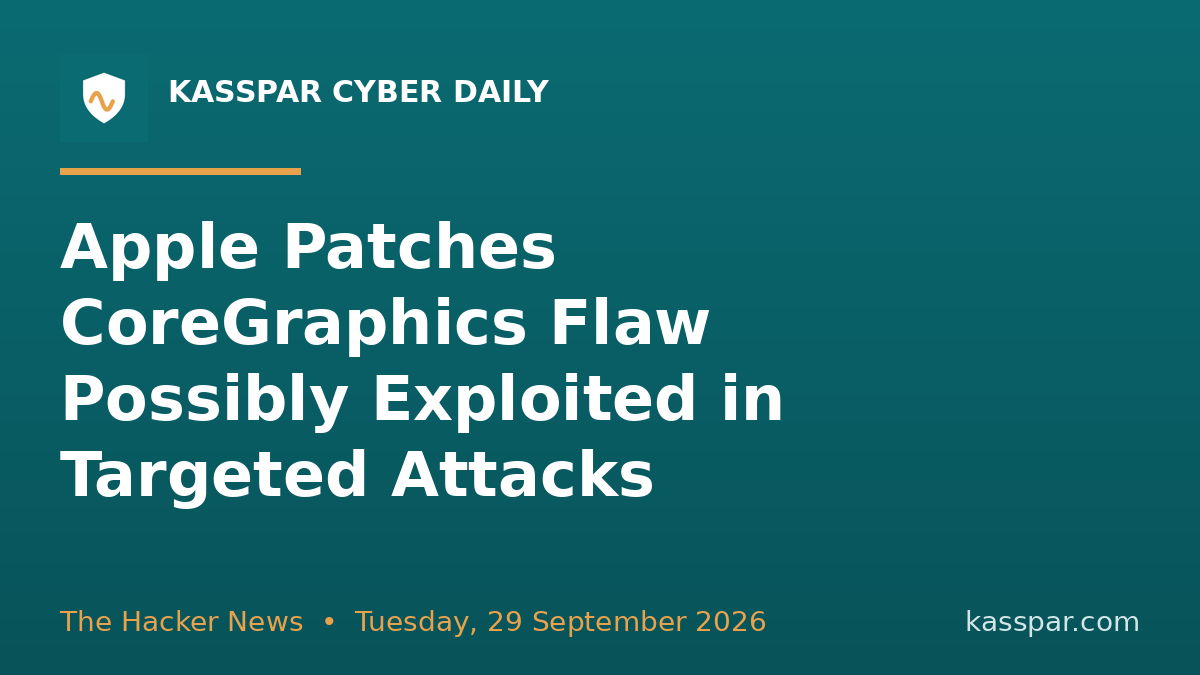
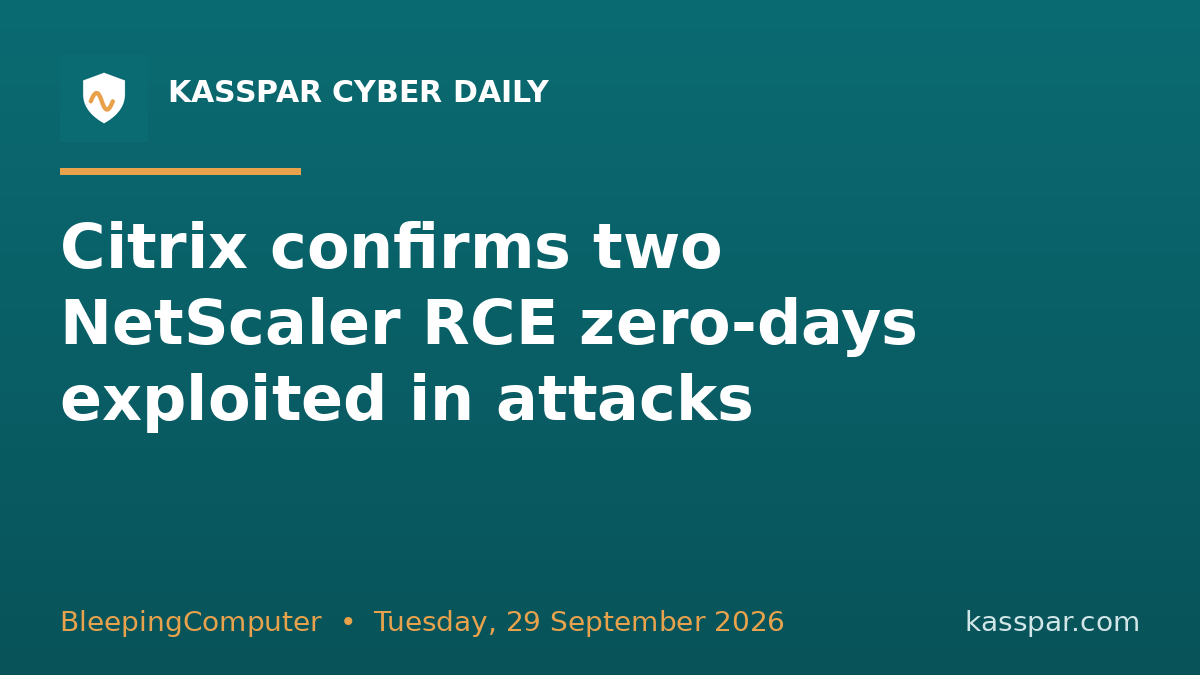
chore: archive 2026-09-29

Changed region(s): [[0.0308, 0.3111, 0.7708, 0.7467], [0.0308, 0.9022, 0.6475, 0.9644]]

diff --git a/site/archive/2026-09-29/index.html b/site/archive/2026-09-29/index.html
@@ -69,28 +69,28 @@
       <article class="card primary">
         <div class="badge">TODAY&#x27;S TOP STORY</div>
         <img class="thumb" src="card_0.png" alt="headline card" loading="lazy"/>
-        <h2>Citrix confirms two NetScaler RCE zero-days exploited in attacks</h2>
+        <h2>Apple patches CoreGraphics zero-day flaw exploited in attacks</h2>
         <p class="src">BleepingComputer</p>
 
         <div class="post">
-          <div class="post-h">X / Twitter <span>169/280</span></div>
-          <pre id="x0">🛠 Heads up, admins: Citrix confirms two NetScaler RCE zero-days exploited in attacks
+          <div class="post-h">X / Twitter <span>240/280</span></div>
+          <pre id="x0">🛠 Heads up, admins: Apple released security updates to fix a zero-day vulnerability exploited in &quot;extremely sophisticated&quot; targeted attacks on iOS devices.
 Patch fast — attackers already are.
 #CyberSecurity #InfoSec
-https://www.bleepingcomputer.com/news/security/citrix-admins-warned-to-shut-down-netscalers-over-2-exploited-zero-days/</pre>
+https://www.bleepingcomputer.com/news/security/apple-patches-coregraphics-zero-day-flaw-exploited-in-attacks/</pre>
           <div class="btns">
-            <a class="btn x" href="https://x.com/intent/tweet?text=%F0%9F%9B%A0%EF%B8%8F%20Heads%20up%2C%20admins%3A%20Citrix%20confirms%20two%20NetScaler%20RCE%20zero-days%20exploited%20in%20attacks%0APatch%20fast%20%E2%80%94%20attackers%20already%20are.%0A%23CyberSecurity%20%23InfoSec%0Ahttps%3A//www.bleepingcomputer.com/news/security/citrix-admins-warned-to-shut-down-netscalers-over-2-exploited-zero-days/" target="_blank" rel="noopener">Post to X ↗</a>
+            <a class="btn x" href="https://x.com/intent/tweet?text=%F0%9F%9B%A0%EF%B8%8F%20Heads%20up%2C%20admins%3A%20Apple%20released%20security%20updates%20to%20fix%20a%20zero-day%20vulnerability%20exploited%20in%20%22extremely%20sophisticated%22%20targeted%20attacks%20on%20iOS%20devices.%0APatch%20fast%20%E2%80%94%20attackers%20already%20are.%0A%23CyberSecurity%20%23InfoSec%0Ahttps%3A//www.bleepingcomputer.com/news/security/apple-patches-coregraphics-zero-day-flaw-exploited-in-attacks/" target="_blank" rel="noopener">Post to X ↗</a>
             <button class="btn ghost" onclick="copyEl('x0',this)">Copy</button>
           </div>
         </div>
 
         <div class="post">
           <div class="post-h">LinkedIn</div>
-          <pre id="li0">🔐 Citrix confirms two NetScaler RCE zero-days exploited in attacks
+          <pre id="li0">🔐 Apple patches CoreGraphics zero-day flaw exploited in attacks
 
 A vulnerability worth acting on today 👇
 
-Citrix has confirmed that two critical NetScaler remote code execution vulnerabilities, tracked as CVE-2026-88771 and CVE-2026-88772, are being exploited in attacks and that it has released security updates to fix the flaws. [...]
+Apple released security updates to fix a zero-day vulnerability exploited in &quot;extremely sophisticated&quot; targeted attacks on iOS devices. [...]
 
 ⚡ Why it matters: Patch affected systems promptly and confirm the fix actually applied.
 
@@ -102,7 +102,7 @@ Are your systems covered? What&#x27;s your team doing about this? 💬
             <button class="btn ghost" onclick="copyEl('li0',this)">Copy</button>
           </div>
           <p class="hint">✅ Tip: post the text above, then add the link below as the <b>first comment</b> (keeps reach up &amp; avoids spam flags).</p>
-          <pre id="lc0">🔗 Source (BleepingComputer): https://www.bleepingcomputer.com/news/security/citrix-admins-warned-to-shut-down-netscalers-over-2-exploited-zero-days/</pre>
+          <pre id="lc0">🔗 Source (BleepingComputer): https://www.bleepingcomputer.com/news/security/apple-patches-coregraphics-zero-day-flaw-exploited-in-attacks/</pre>
           <div class="btns">
             <button class="btn ghost" onclick="copyEl('lc0',this)">Copy link for first comment</button>
           </div>
@@ -111,28 +111,28 @@ Are your systems covered? What&#x27;s your team doing about this? 💬
       <article class="card">
         <div class="badge">ALSO WORTH SHARING #1</div>
         <img class="thumb" src="card_1.png" alt="headline card" loading="lazy"/>
-        <h2>Apple Patches CoreGraphics Flaw Possibly Exploited in Targeted Attacks</h2>
-        <p class="src">The Hacker News</p>
+        <h2>Citrix confirms two NetScaler RCE zero-days exploited in attacks</h2>
+        <p class="src">BleepingComputer</p>
 
         <div class="post">
-          <div class="post-h">X / Twitter <span>266/280</span></div>
-          <pre id="x1">🚨 Zero-day alert: Apple has released security updates to address a vulnerability in older versions of iOS, iPadOS, and macOS that it said may have been exploited in targeted attacks.
+          <div class="post-h">X / Twitter <span>169/280</span></div>
+          <pre id="x1">🛠 Heads up, admins: Citrix confirms two NetScaler RCE zero-days exploited in attacks
 Patch fast — attackers already are.
 #CyberSecurity #InfoSec
-https://thehackernews.com/2026/09/apple-patches-coregraphics-flaw.html</pre>
+https://www.bleepingcomputer.com/news/security/citrix-admins-warned-to-shut-down-netscalers-over-2-exploited-zero-days/</pre>
           <div class="btns">
-            <a class="btn x" href="https://x.com/intent/tweet?text=%F0%9F%9A%A8%20Zero-day%20alert%3A%20Apple%20has%20released%20security%20updates%20to%20address%20a%20vulnerability%20in%20older%20versions%20of%20iOS%2C%20iPadOS%2C%20and%20macOS%20that%20it%20said%20may%20have%20been%20exploited%20in%20targeted%20attacks.%0APatch%20fast%20%E2%80%94%20attackers%20already%20are.%0A%23CyberSecurity%20%23InfoSec%0Ahttps%3A//thehackernews.com/2026/09/apple-patches-coregraphics-flaw.html" target="_blank" rel="noopener">Post to X ↗</a>
+            <a class="btn x" href="https://x.com/intent/tweet?text=%F0%9F%9B%A0%EF%B8%8F%20Heads%20up%2C%20admins%3A%20Citrix%20confirms%20two%20NetScaler%20RCE%20zero-days%20exploited%20in%20attacks%0APatch%20fast%20%E2%80%94%20attackers%20already%20are.%0A%23CyberSecurity%20%23InfoSec%0Ahttps%3A//www.bleepingcomputer.com/news/security/citrix-admins-warned-to-shut-down-netscalers-over-2-exploited-zero-days/" target="_blank" rel="noopener">Post to X ↗</a>
             <button class="btn ghost" onclick="copyEl('x1',this)">Copy</button>
           </div>
         </div>
 
         <div class="post">
           <div class="post-h">LinkedIn</div>
-          <pre id="li1">🔐 Apple Patches CoreGraphics Flaw Possibly Exploited in Targeted Attacks
+          <pre id="li1">🔐 Citrix confirms two NetScaler RCE zero-days exploited in attacks
 
 A vulnerability worth acting on today 👇
 
-Apple has released security updates to address a vulnerability in older versions of iOS, iPadOS, and macOS that it said may have been exploited in targeted attacks. The vulnerability, tracked as CVE-2026-86950, refers to an out-of-bounds write impacting the CoreGraphics component that could lead to arbitrary code execution when processing a maliciously crafted file. The iPhone maker said the
+Citrix has confirmed that two critical NetScaler remote code execution vulnerabilities, tracked as CVE-2026-88771 and CVE-2026-88772, are being exploited in attacks and that it has released security updates to fix the flaws. [...]
 
 ⚡ Why it matters: Patch affected systems promptly and confirm the fix actually applied.
 
@@ -144,7 +144,7 @@ Are your systems covered? What&#x27;s your team doing about this? 💬
             <button class="btn ghost" onclick="copyEl('li1',this)">Copy</button>
           </div>
           <p class="hint">✅ Tip: post the text above, then add the link below as the <b>first comment</b> (keeps reach up &amp; avoids spam flags).</p>
-          <pre id="lc1">🔗 Source (The Hacker News): https://thehackernews.com/2026/09/apple-patches-coregraphics-flaw.html</pre>
+          <pre id="lc1">🔗 Source (BleepingComputer): https://www.bleepingcomputer.com/news/security/citrix-admins-warned-to-shut-down-netscalers-over-2-exploited-zero-days/</pre>
           <div class="btns">
             <button class="btn ghost" onclick="copyEl('lc1',this)">Copy link for first comment</button>
           </div>
@@ -153,28 +153,28 @@ Are your systems covered? What&#x27;s your team doing about this? 💬
       <article class="card">
         <div class="badge">ALSO WORTH SHARING #2</div>
         <img class="thumb" src="card_2.png" alt="headline card" loading="lazy"/>
-        <h2>CISA orders feds to patch exploited Citrix flaws by Wednesday</h2>
+        <h2>Kiteworks patches critical flaw, brings customer systems online</h2>
         <p class="src">BleepingComputer</p>
 
         <div class="post">
-          <div class="post-h">X / Twitter <span>181/280</span></div>
-          <pre id="x2">🛠 Heads up, admins: The Cybersecurity and Infrastructure Security Agency (CISA) has ordered U.S.
+          <div class="post-h">X / Twitter <span>251/280</span></div>
+          <pre id="x2">🛠 Heads up, admins: American tech company Kiteworks has lifted a precautionary advisory asking customers to shut down systems after patching a critical vulnerability.
 Patch fast — attackers already are.
 #CyberSecurity #InfoSec
-https://www.bleepingcomputer.com/news/security/cisa-orders-feds-to-patch-exploited-citrix-flaws-by-wednesday/</pre>
+https://www.bleepingcomputer.com/news/security/kiteworks-lifts-shutdown-warning-after-patching-critical-flaw/</pre>
           <div class="btns">
-            <a class="btn x" href="https://x.com/intent/tweet?text=%F0%9F%9B%A0%EF%B8%8F%20Heads%20up%2C%20admins%3A%20The%20Cybersecurity%20and%20Infrastructure%20Security%20Agency%20%28CISA%29%20has%20ordered%20U.S.%0APatch%20fast%20%E2%80%94%20attackers%20already%20are.%0A%23CyberSecurity%20%23InfoSec%0Ahttps%3A//www.bleepingcomputer.com/news/security/cisa-orders-feds-to-patch-exploited-citrix-flaws-by-wednesday/" target="_blank" rel="noopener">Post to X ↗</a>
+            <a class="btn x" href="https://x.com/intent/tweet?text=%F0%9F%9B%A0%EF%B8%8F%20Heads%20up%2C%20admins%3A%20American%20tech%20company%20Kiteworks%20has%20lifted%20a%20precautionary%20advisory%20asking%20customers%20to%20shut%20down%20systems%20after%20patching%20a%20critical%20vulnerability.%0APatch%20fast%20%E2%80%94%20attackers%20already%20are.%0A%23CyberSecurity%20%23InfoSec%0Ahttps%3A//www.bleepingcomputer.com/news/security/kiteworks-lifts-shutdown-warning-after-patching-critical-flaw/" target="_blank" rel="noopener">Post to X ↗</a>
             <button class="btn ghost" onclick="copyEl('x2',this)">Copy</button>
           </div>
         </div>
 
         <div class="post">
           <div class="post-h">LinkedIn</div>
-          <pre id="li2">🔐 CISA orders feds to patch exploited Citrix flaws by Wednesday
+          <pre id="li2">🔐 Kiteworks patches critical flaw, brings customer systems online
 
 A vulnerability worth acting on today 👇
 
-The Cybersecurity and Infrastructure Security Agency (CISA) has ordered U.S. government agencies over the weekend to secure their systems against attacks exploiting two critical Citrix NetScaler vulnerabilities. [...]
+American tech company Kiteworks has lifted a precautionary advisory asking customers to shut down systems after patching a critical vulnerability. [...]
 
 ⚡ Why it matters: Patch affected systems promptly and confirm the fix actually applied.
 
@@ -186,7 +186,7 @@ Are your systems covered? What&#x27;s your team doing about this? 💬
             <button class="btn ghost" onclick="copyEl('li2',this)">Copy</button>
           </div>
           <p class="hint">✅ Tip: post the text above, then add the link below as the <b>first comment</b> (keeps reach up &amp; avoids spam flags).</p>
-          <pre id="lc2">🔗 Source (BleepingComputer): https://www.bleepingcomputer.com/news/security/cisa-orders-feds-to-patch-exploited-citrix-flaws-by-wednesday/</pre>
+          <pre id="lc2">🔗 Source (BleepingComputer): https://www.bleepingcomputer.com/news/security/kiteworks-lifts-shutdown-warning-after-patching-critical-flaw/</pre>
           <div class="btns">
             <button class="btn ghost" onclick="copyEl('lc2',this)">Copy link for first comment</button>
           </div>

diff --git a/site/archive/index.html b/site/archive/index.html
@@ -68,7 +68,7 @@
 <ul class="arc-list">
       <li>
         <a href="2026-09-29/">2026-09-29</a>
-        <div class="titles">Citrix confirms two NetScaler RCE zero-days exploited in attacks · Apple Patches CoreGraphics Flaw Possibly Exploited in Targeted Attacks · CISA orders feds to patch exploited Citrix flaws by Wednesday</div>
+        <div class="titles">Apple patches CoreGraphics zero-day flaw exploited in attacks · Citrix confirms two NetScaler RCE zero-days exploited in attacks · Kiteworks patches critical flaw, brings customer systems online</div>
       </li></ul>
 </main>
 <footer>Auto-curated from trusted security sources. You approve every post.<br/>kasspar.com</footer>
